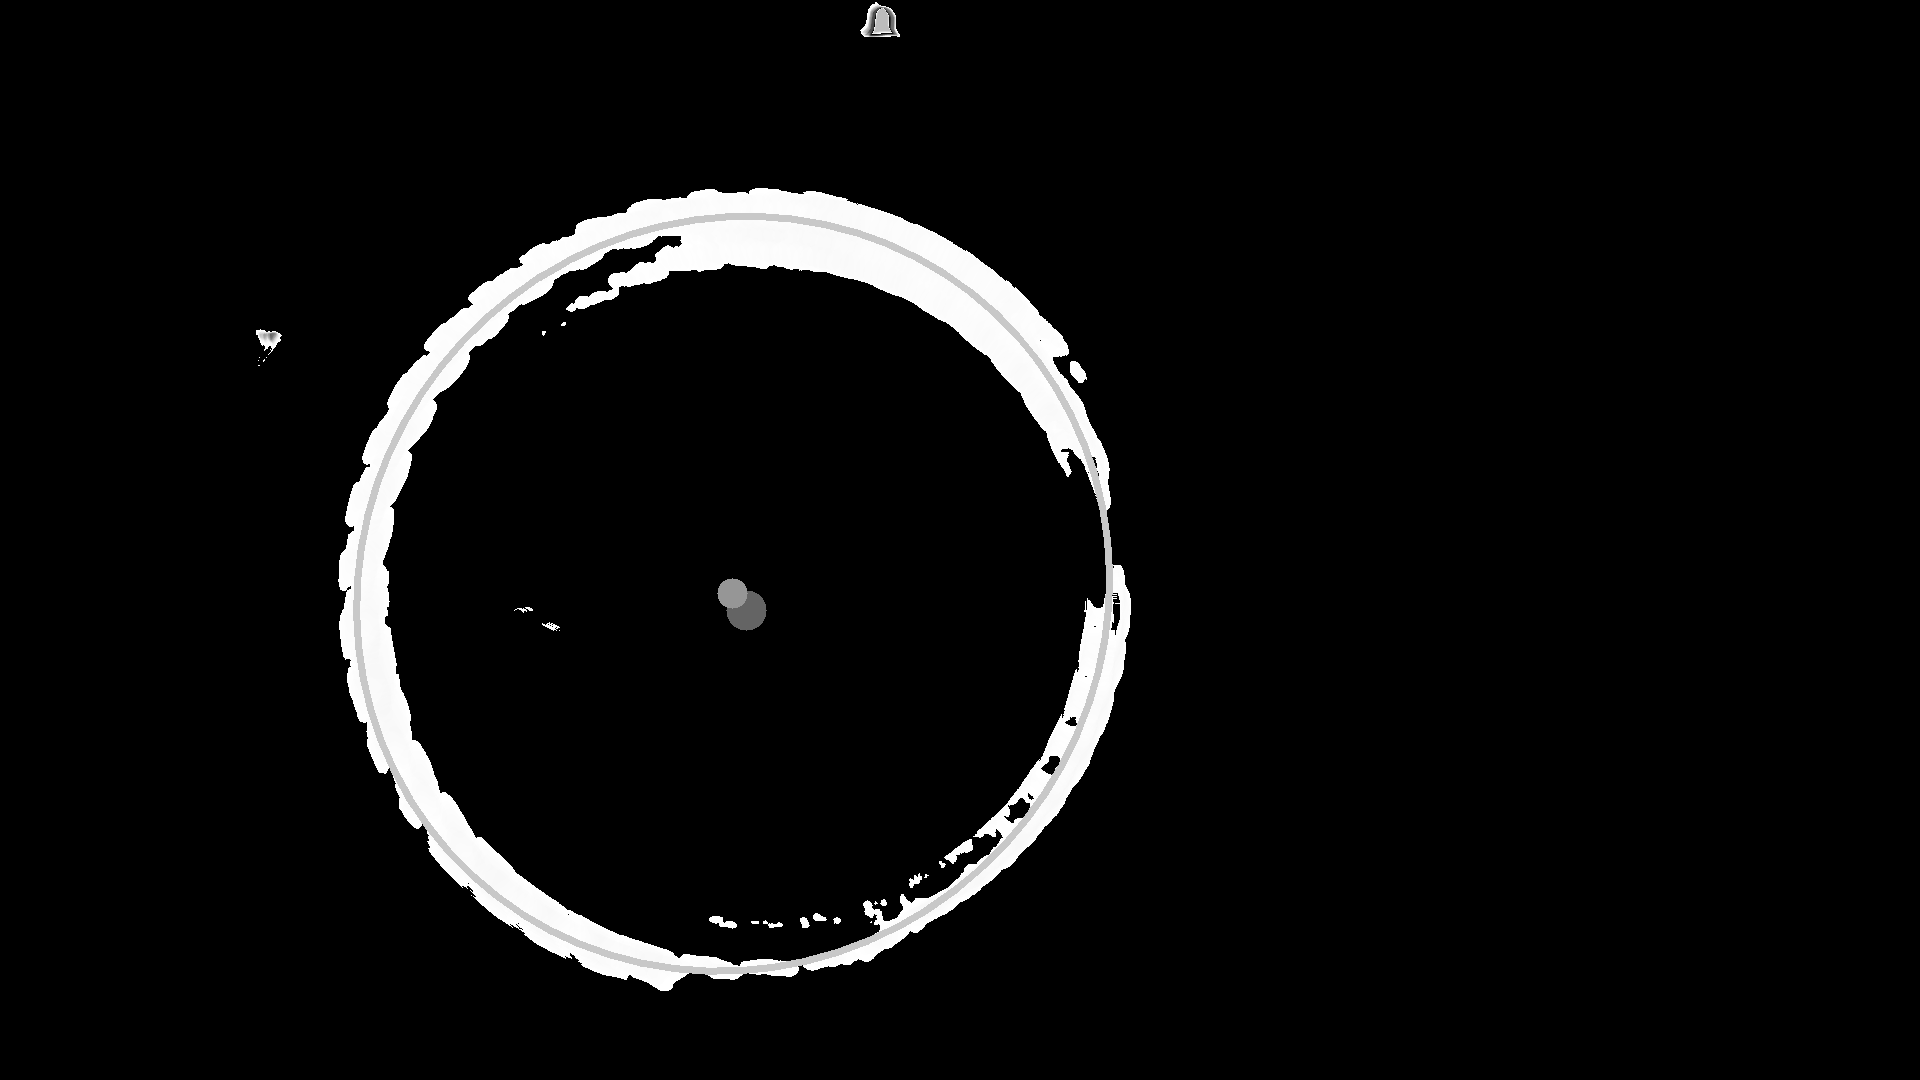
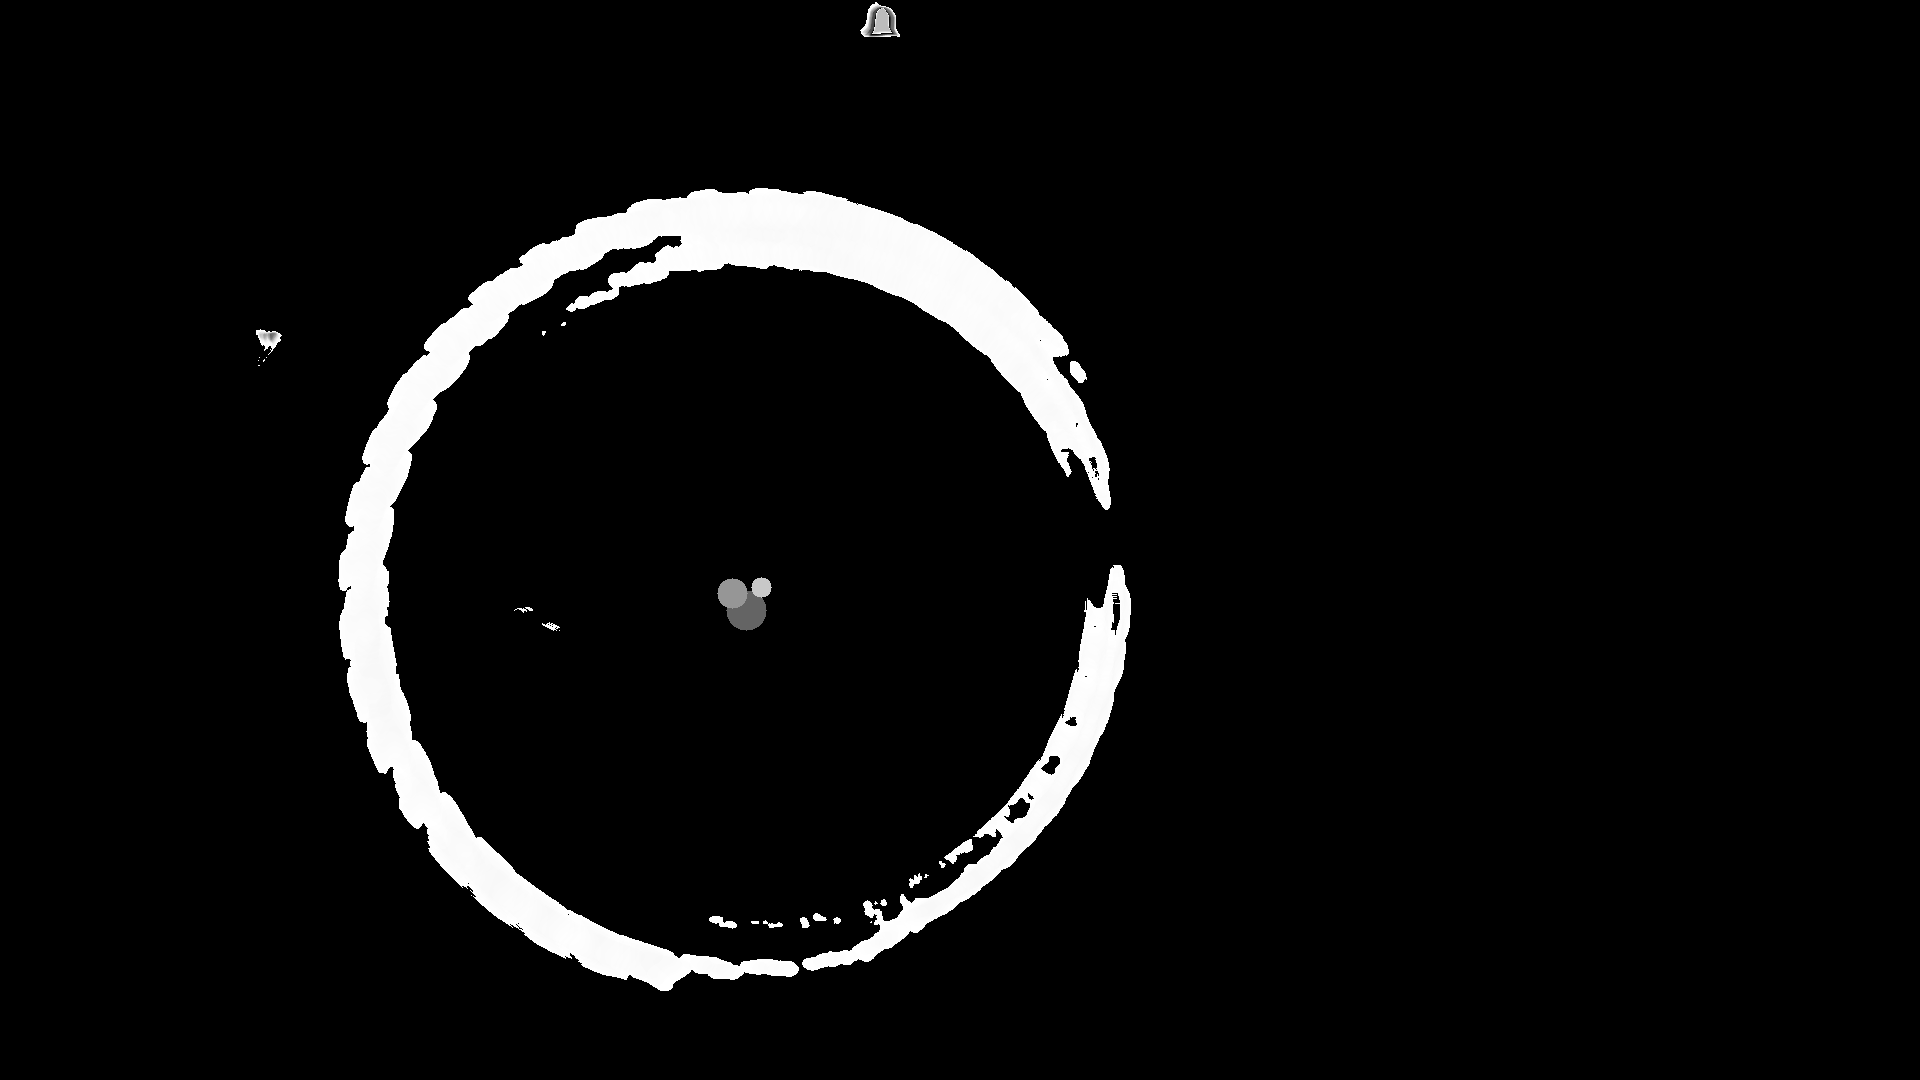
[feature] three ways to find image center added. Should test full solution to find out which one is better

diff --git a/circles_on_steroids.py b/circles_on_steroids.py
@@ -13,15 +13,18 @@ import copy
 # Alrihgt, dont ask me how it works, but this function will attempt to
 # auto-fit cv2.HoughCircles parameters to find the most likely locations
 # of the desired number of circles on the image.
-def find_circle_center_auto(image, number_of_circles_expected):
+def find_circle_center_auto(image, number_of_circles_expected, minimum_circle_size, maximum_circle_size):
+	# This may actually take over ten minutes, be patient xd
 
 	orig_image = np.copy(image)
 	output = image.copy()
+	gray = image.copy()
 
 	circles = None
+	params = []
 
-	minimum_circle_size = 100      #this is the range of possible circle in pixels you want to find
-	maximum_circle_size = 1000     #maximum possible circle size you're willing to find in pixels
+	#minimum_circle_size = 200      #this is the range of possible circle in pixels you want to find
+	#maximum_circle_size = 600     #maximum possible circle size you're willing to find in pixels
 
 	guess_dp = 1.0
 
@@ -37,11 +40,11 @@ def find_circle_center_auto(image, number_of_circles_expected):
 	while guess_accumulator_array_threshold > 1 and breakout == False:
 		#start out with smallest resolution possible, to find the most precise circle, then creep bigger if none found
 		guess_dp = 1.0
-		print("resetting guess_dp:" + str(guess_dp))
+		#print("resetting guess_dp: " + str(guess_dp))
 		while guess_dp < 9 and breakout == False:
 			guess_radius = maximum_circle_size
-			print("setting guess_radius: " + str(guess_radius))
-			print(circles is None)
+			#print("setting guess_radius: " + str(guess_radius))
+			#print(circles is None)
 			while True:
 
 				#HoughCircles algorithm isn't strong enough to stand on its own if you don't
@@ -49,15 +52,15 @@ def find_circle_center_auto(image, number_of_circles_expected):
 				#If you don't know radius, you need lots of guess and check and lots of post-processing 
 				#verification.  Luckily HoughCircles is pretty quick so we can brute force.
 
-				print("guessing radius: " + str(guess_radius) + 
-						" and dp: " + str(guess_dp) + " vote threshold: " + 
-						str(guess_accumulator_array_threshold))
+				#print("guessing radius: " + str(guess_radius) + 
+				#		" and dp: " + str(guess_dp) + " vote threshold: " + 
+				#		str(guess_accumulator_array_threshold))
 
 				circles = cv2.HoughCircles(gray, 
 					cv2.cv.CV_HOUGH_GRADIENT, 
 					dp=guess_dp,               #resolution of accumulator array.
 					minDist=100,                #number of pixels center of circles should be from each other, hardcode
-					param1=50,
+					param1=40,
 					param2=guess_accumulator_array_threshold,
 					minRadius=(guess_radius-3),    #HoughCircles will look for circles at minimum this size
 					maxRadius=(guess_radius+3)     #HoughCircles will look for circles at maximum this size
@@ -65,9 +68,10 @@ def find_circle_center_auto(image, number_of_circles_expected):
 
 				if circles is not None:
 					if len(circles[0]) == number_of_circles_expected:
-						print("len of circles: " + str(len(circles)))
+						#print("len of circles: " + str(len(circles)))
 						circleLog.append(copy.copy(circles))
-						print("k1")
+						params.append((guess_accumulator_array_threshold, guess_radius-3, guess_radius+3))
+						#print("k1")
 					break
 					circles = None
 				guess_radius -= 5 
@@ -79,9 +83,12 @@ def find_circle_center_auto(image, number_of_circles_expected):
 		guess_accumulator_array_threshold -= 2
 
 	#Return the circleLog with the highest accumulator threshold
-
+	mean_center = [0, 0]
+	print("Best approximations for the circle found automaticly:")
 	# ensure at least some circles were found
-	for cir in circleLog:
+	for i in range(0, len(circleLog)):
+	#for cir in circleLog:
+		cir = circleLog[i]
 		# convert the (x, y) coordinates and radius of the circles to integers
 		output = np.copy(orig_image)
 
@@ -90,16 +97,22 @@ def find_circle_center_auto(image, number_of_circles_expected):
 			exit()
 
 		print(cir[0, :])
+		mean_center[0] += cir[0][0][0]
+		mean_center[1] += cir[0][0][1]
 
 		cir = np.round(cir[0, :]).astype("int")
 
 		for (x, y, r) in cir:
-			cv2.circle(output, (x, y), r, (0, 0, 255), 2)
+			cv2.circle(output, (x, y), r, (200), 2)
 			cv2.rectangle(output, (x - 5, y - 5), (x + 5, y + 5), (0, 128, 255), -1)
-
-		cv2.imshow("output", np.hstack([orig_image, output]))
-		cv2.waitKey(0)
-	
+		print(params[i])
+		#cv2.imshow("output", output)
+		#cv2.waitKey()
+	mean_center[0] = mean_center[0] / len(circleLog)
+	mean_center[1] = mean_center[1] / len(circleLog)
+	#print("mean:")
+	#print(mean_center)
+	return (int(mean_center[0]), int(mean_center[1]))
 
 
 

diff --git a/visual_odometry_merge.py b/visual_odometry_merge.py
@@ -5,6 +5,8 @@ import numpy as np # used for linear algebra math
 import math # used for trigonometry functions
 import time # used to track time, duh
 
+from circles_on_steroids import find_circle_center_auto
+
 
 
 
@@ -46,7 +48,7 @@ def find_circle_center_manual(image):
 	# Find the center
 	center = np.around(np.mean(circles[0,:], axis = 0)) # Находим среднее арифметическое из найденный кругов
 	# center array contains x, y, radius
-	return (center[0], center[1])
+	return (int(center[0]), int(center[1]), int(center[2]))
 
 
 def find_contour_center(image):
@@ -125,12 +127,15 @@ def visual_odometry():
 
 	# TODO: Find actual rotation center on the base_image
 	coords = find_circle_center_manual(base_image)
-	print(coords)
 	coords2 = find_contour_center(base_image)
+	coords3 = find_circle_center_auto(base_image, 1, coords[2] - 50, coords[2] + 50)
+	print(coords)
 	print(coords2)
-	# Draw the center of the wheel
+	print(coords3)
+	# Draw the center of the wheel          
 	cv2.circle(base_image, (coords[0], coords[1]), 20, (100), -1)
 	cv2.circle(base_image, (coords2[0], coords2[1]), 15, (150), -1)
+	cv2.circle(base_image, (coords3[0], coords3[1]), 10, (200), -1)
 	# Save image to file
 	cv2.imwrite("rotation_center.png", base_image)
 	# Show the image with marked rotation center
